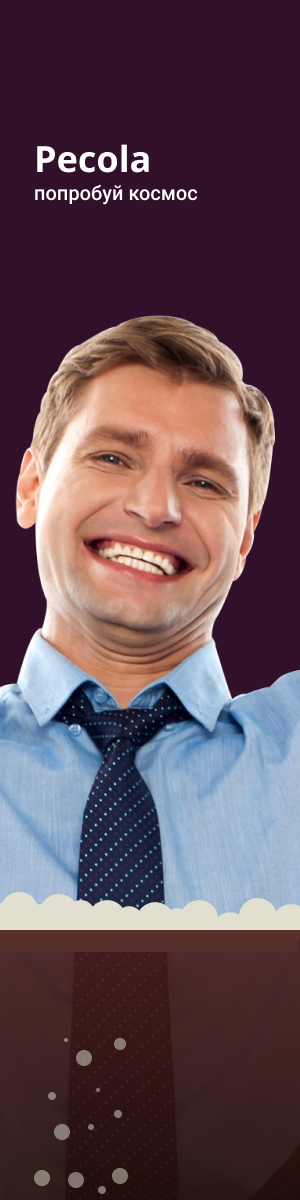
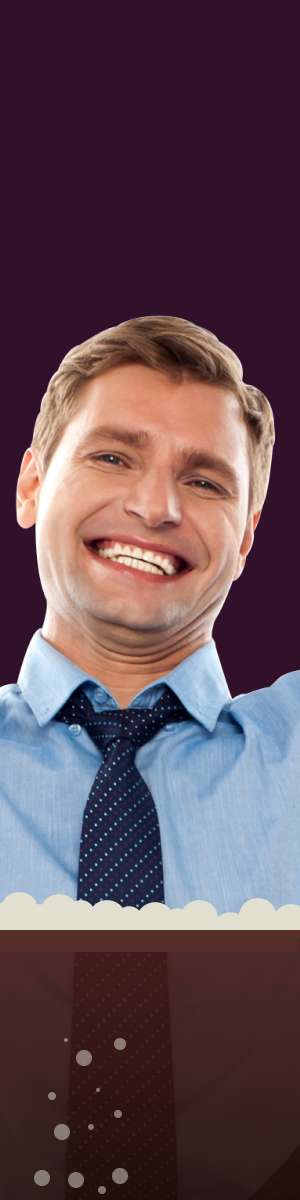
ads

Changed region(s): [[0.12, 0.1233, 0.66, 0.185]]

diff --git a/index.html b/index.html
@@ -107,9 +107,28 @@
           <p>недостаточно прав</p>
         </div>
         <div class="ads-c">
-          <div><img src="imgs/plants.png"></div>
-          <div><img src="imgs/cola.png"></div>
-          <div><img src="imgs/ship.png"></div>
+          <div>
+            <div class="ads-t plants-t">
+              <h1>豔</h1>
+              <h2>real plants</h2>
+              <h3>made on Earth</h3>
+            </div>
+            <img id="ads-p" src="imgs/plants.png">
+          </div>
+          <div>
+            <div class="ads-t cola-t">
+              <h1>Pecola</h1>
+              <h2>попробуй космос</h2>
+            </div>
+            <img id="ads-cola" src="imgs/cola.png">
+          </div>
+          <div>
+            <div class="ads-t ship-t">
+              <h1>zusammenstürzen</h1>
+              <h2>demnächst</h2>
+            </div>
+            <img id="ads-s" src="imgs/ship.png">
+          </div>
         </div>
       </div>
     </div>

diff --git a/css/dets.css b/css/dets.css
@@ -260,6 +260,61 @@ svg{
   opacity: 0;
   /* background: rgba(255, 255, 255, 0.09); */
 }
+.ads-w{
+  position: relative;
+}
+ .ads-t{
+  color: #fff;
+  position: absolute;
+}
+.plants-t{
+  font-family: Noto Sans;
+  text-align: center;
+  padding: 2.5em;
+  bottom: 2em;
+}
+.plants-t h1{
+  top: 0;
+  font-size: 10vw;
+  margin-bottom: 13vw;
+}
+.plants-t h2{
+  font-size: 1.4vw;
+  font-weight: bold;
+}
+.plants-t h3{
+  font-size: .9vw;
+  margin-top: .5em;
+  bottom: 2em;
+}
+.cola-t{
+  padding: 3em;
+}
+.cola-t h1{
+  font-family: Noto Sans;
+  font-weight: bold;
+  font-size: 2vw;
+}
+.cola-t h2{
+  font-family: Roboto;
+  font-size: 1vw;
+  margin-top: .4em;
+}
+.ship-t{
+  padding: 3em;
+  font-family: Roboto;
+  font-weight: bold;
+}
+.ship-t h1{
+  font-size: calc(24px + 3.4vw);
+  word-wrap: break-word;
+  width: 8vw;
+}
+.ship-t h2{
+  margin-top: 1em;
+  text-align: left;
+  font-size: 1vw;
+}
 
 /* фикс карусели */
 .ads img {

diff --git a/css/master.css b/css/master.css
@@ -2,6 +2,7 @@
 @import "responsive.css";
 @import "jquery-ui.css";
 @import url('https://fonts.googleapis.com/css2?family=Roboto:wght@100;300;400;500&display=swap');
+@import url('https://fonts.googleapis.com/css2?family=Noto+Sans:wght@400;700&display=swap');
 @import "layout.css";
 @import "text.css";
 @import "dets.css";

diff --git a/js/caru.js b/js/caru.js
@@ -1,7 +1,7 @@
 $(document).ready(function(){
   $('.ads-c').slick({
-    autoplay:true,
-    autoplaySpeed: 5000,
+    // autoplay:true,
+    // autoplaySpeed: 5000,
     dots: true,
     arrows : false
   });

diff --git a/css/layout.css b/css/layout.css
@@ -105,6 +105,3 @@ div{
 .blocker{
   display: none;
 }
-.unblocker{
-  display: block;
-}
